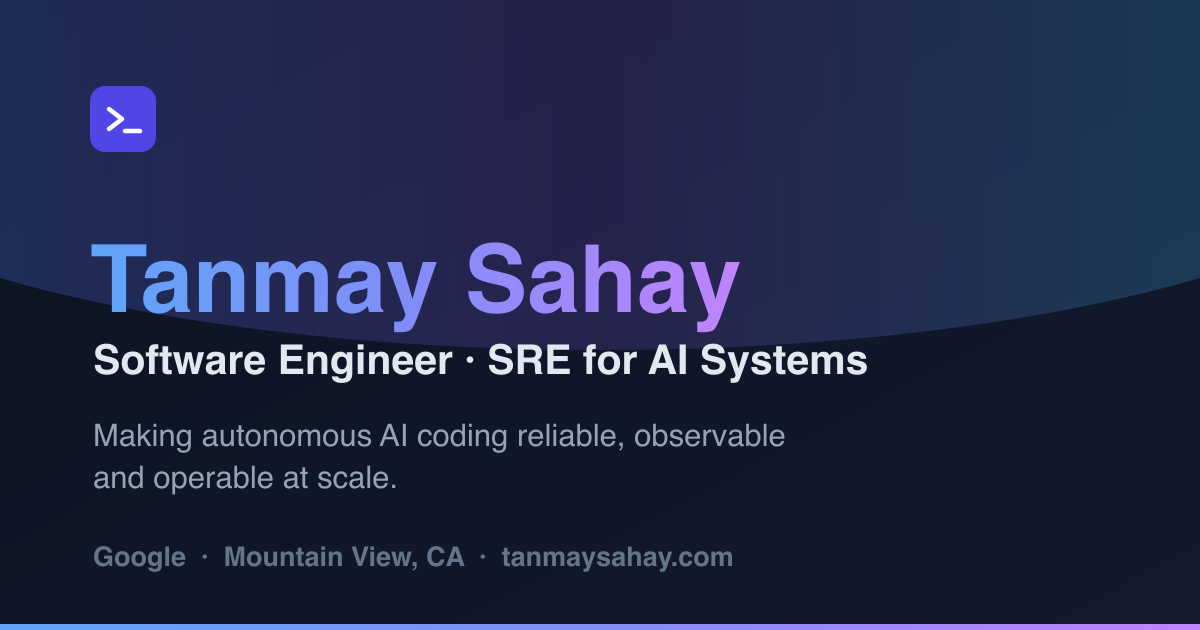
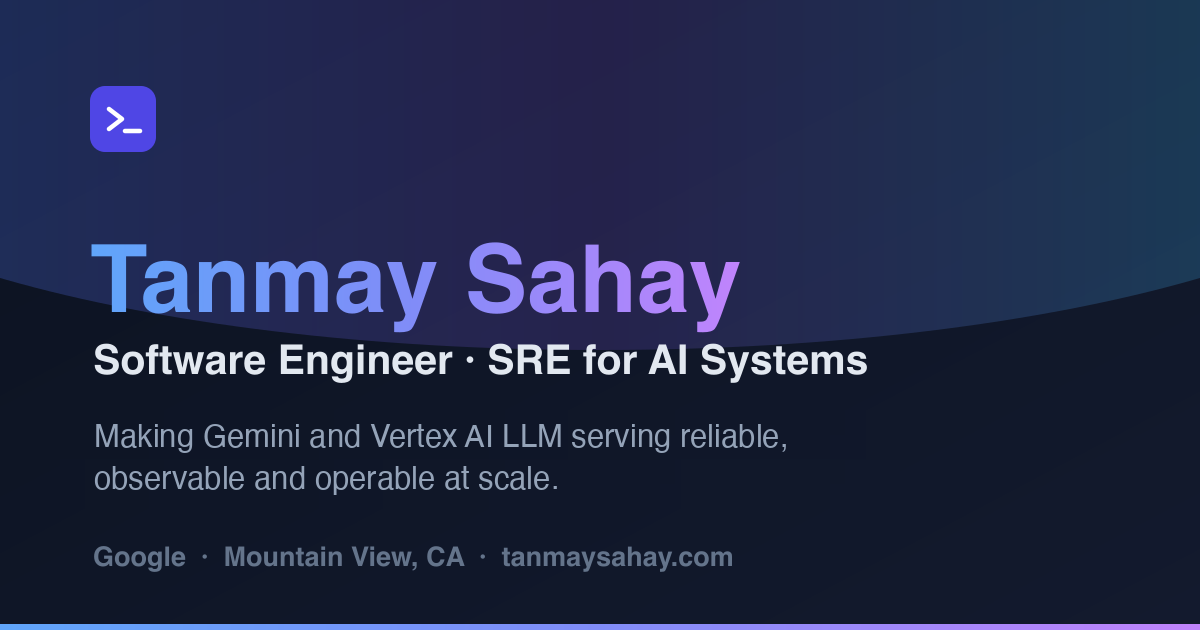
content: remove all Jules mentions; Apr '25+ is Gemini & Vertex AI LLM serving
Rewrite the Apr '25 - Present entry from the approved résumé's
Gemini Platform & Vertex AI section (inference-serving ownership,
hermetic ML-Ops config migration, region turnup with accelerator
capacity validation, Gemini-powered incident framework). Drop the
untraceable ~30 SWE-years / ~7.6k TPUs bullet. Remove Jules links,
the Jules team type, and Jules copy from summary, meta, OG and
Twitter tags. Regenerate the og-image tagline in the same style.
claims.test.ts now fails if "jules" appears in src/, index.html or
public/.

Claude-Session: https://claude.ai/code/session_01GRvi3Zx7AnBhsrVrAUUWgQ

Changed region(s): [[0.0617, 0.6635, 0.6475, 0.7841]]

diff --git a/src/InteractiveResume.tsx b/src/InteractiveResume.tsx
@@ -30,7 +30,7 @@ interface Kudo {
   date: string;
   text: string;
   tags: string[];
-  team: 'Jules' | 'Vertex AI' | 'Network Infra' | 'Cloud Infra' | 'Serverless' | 'Booking' | 'Cross-team';
+  team: 'Vertex AI' | 'Network Infra' | 'Cloud Infra' | 'Serverless' | 'Booking' | 'Cross-team';
   theme: 'Technical Excellence' | 'Leadership' | 'Collaboration' | 'Incident Response' | 'Automation' | 'Mentoring' | 'Innovation';
   year: number;
   featured?: boolean;
@@ -60,14 +60,14 @@ export const RESUME_DATA = {
   profile: {
     name: "Tanmay Sahay",
     title: "Software Engineer — Reliability for AI Systems",
-    tagline: "Making frontier AI models and agents reliable, observable, and operable at scale.",
+    tagline: "Making Gemini and Vertex AI LLM serving reliable, observable, and operable at scale.",
     location: "Mountain View, CA",
     contact: {
       email: "tanmaysahay94@gmail.com",
       phone: "+1-650-705-7651",
       linkedin: "linkedin.com/in/tanmaysahay"
     },
-    summary: "Customer-obsessed engineer with 8+ years of experience making service operability sustainable. Currently focused on reliability, observability, and operability of Google DeepMind's Gemini models on Vertex AI and the Jules coding agent. Expert in automating complex infrastructure, reducing operational toil by >50%, and pioneering AI-powered troubleshooting. Proven track record of saving 30+ SWE-years through efficiency optimizations.",
+    summary: "Customer-obsessed engineer with 8+ years of experience making service operability sustainable. Currently focused on reliability of Google DeepMind's Gemini models on Vertex AI — accelerator-backed LLM inference serving. Expert in automating complex infrastructure, reducing operational toil by >50%, and pioneering AI-powered troubleshooting. Proven track record of saving 30+ SWE-years through efficiency optimizations.",
     languages: {
       families: [
         {
@@ -114,21 +114,18 @@ export const RESUME_DATA = {
     {
       id: "google-gemini",
       company: "Google",
-      role: "Software Engineer, SRE (Gemini & Vertex AI · Google DeepMind)",
+      role: "Software Engineer, SRE (Gemini & Vertex AI LLM serving · Google DeepMind)",
       period: "Apr '25 - Present",
       location: "US-MTV",
       type: "work",
-      description: "Leading reliability for Google DeepMind models and agents in production — Gemini, Veo and Imagen on Vertex AI, and Jules, the autonomous AI coding agent (jules.google.com).",
+      description: "Making Google Cloud's large language model offerings (Gemini, Veo, Imagen) more reliable. Check out cloud.google.com/vertex-ai",
       impact_points: [
-        "Automated months-long turnup process for Vertex AI in new regions, and extended turnup automation to Jules regions and capacity.",
-        "Saved Google ~30 SWE-years and relinquished ~7.6k TPUs by enforcing Vertex Endpoint Health.",
-        "Pioneered 'Gemini Powered Vertex Operations', using AI to reduce Mean Time To Mitigate (MTTM).",
-        "Designed capacity presubmits preventing Vertex capacity overconsumption.",
-        "Building observability pipelines to surface agent health, task success rates, and failure modes — enabling data-driven reliability decisions.",
-        "Designing operability frameworks that make Jules continually easier to operate, maintain, and on-call for.",
-        "Driving change management and capacity management practices to ensure safe, predictable rollouts at scale."
+        "Reliability owner for accelerator-backed inference serving at frontier-model scale — GPU/TPU fleet capacity, serving-stack rollouts, and the incident path for Gemini, Veo and Imagen traffic.",
+        "Led the migration of Vertex AI's ML model-serving configurations to dedicated hermetic ML-Ops, removing a class of release-time serving outages and materially improving rollout safety.",
+        "Automated the months-long turnup of Vertex AI in new regions, including accelerator capacity validation before traffic admission.",
+        "Built a Gemini-powered incident framework that cuts MTTx through LLM-assisted triage and gated actuation — an agentic system running against live production."
       ],
-      skills: ["AI/ML", "AI Agents", "Reliability", "Observability", "Automation", "Capacity Planning", "Change Management", "Python", "Go"]
+      skills: ["LLM Serving", "GPU/TPU Capacity", "ML-Ops", "Reliability", "Incident Response", "Automation", "Python", "Go"]
     },
     {
       id: "google-network",
@@ -298,8 +295,8 @@ export const RESUME_DATA = {
 const LAYMAN_CONTENT = {
   profile: {
     title: "Software Engineer making AI systems reliable",
-    tagline: "Making frontier AI models and agents reliable, observable, and operable at scale.",
-    summary: "Dedicated engineer with 8+ years of experience keeping critical services running. Currently focused on making Google DeepMind's Gemini AI models and the Jules coding assistant reliable and well-monitored. I build tools that automate complex tasks, reduce repetitive work by over 50%, and use AI to solve problems faster. My work has saved the equivalent of 30+ years of engineering effort through efficiency improvements."
+    tagline: "Making Gemini and Vertex AI LLM serving reliable, observable, and operable at scale.",
+    summary: "Dedicated engineer with 8+ years of experience keeping critical services running. Currently focused on making Google DeepMind's Gemini AI models on Vertex AI reliable and well-monitored. I build tools that automate complex tasks, reduce repetitive work by over 50%, and use AI to solve problems faster. My work has saved the equivalent of 30+ years of engineering effort through efficiency improvements."
   },
   metrics: [
     { label: "Peer Bonuses", value: "43", desc: "Recognized by colleagues for teamwork & impact" },
@@ -309,14 +306,13 @@ const LAYMAN_CONTENT = {
   ],
   experience: {
     "google-gemini": {
-      role: "Engineer keeping Google DeepMind's AI models and agents (Gemini, Imagen, Jules) reliable",
-      description: "Leading efforts to keep Google DeepMind's AI products — on Google Cloud and the Jules coding agent — running smoothly for customers.",
+      role: "Engineer keeping Google DeepMind's AI models (Gemini, Veo, Imagen) reliable",
+      description: "Keeping Google Cloud's large language model offerings running smoothly for customers.",
       impact_points: [
-        "Automated a months-long setup process for new data centers, now takes days.",
-        "Saved ~30 years of engineering work and freed up expensive AI chips by identifying unused resources.",
-        "Pioneered using AI to help diagnose and fix problems faster during outages.",
-        "Created safeguards to prevent systems from running out of computing resources.",
-        "Creating monitoring dashboards so the team can see how the AI agent is performing and catch problems before users notice."
+        "Responsible for keeping the AI chips and servers that answer Gemini, Veo and Imagen requests reliable.",
+        "Moved how AI models are configured for serving onto a safer, self-contained release process, removing a whole class of release-day outages.",
+        "Automated the months-long setup of Vertex AI in new regions, including checking AI-chip capacity before traffic arrives.",
+        "Built a Gemini-powered incident assistant that helps engineers diagnose and fix outages faster."
       ]
     },
     "google-network": {
@@ -391,7 +387,7 @@ const LAYMAN_CONTENT = {
 // --- Helpers ---
 
 export const linkify = (text: string): React.ReactNode => {
-  const url = 'jules.google.com';
+  const url = 'cloud.google.com/vertex-ai';
   const idx = text.indexOf(url);
   if (idx === -1) return text;
   return (

diff --git a/index.html b/index.html
@@ -8,7 +8,7 @@
     <title>Tanmay Sahay — Software Engineer &amp; SRE for AI Systems</title>
     <meta
       name="description"
-      content="Tanmay Sahay is a Software Engineer and Site Reliability Engineer at Google, making Google DeepMind's Gemini models and agents reliable, observable, and operable at scale. 8+ years in cloud reliability, ex-Booking.com."
+      content="Tanmay Sahay is a Software Engineer and Site Reliability Engineer at Google, making Google DeepMind's Gemini models on Vertex AI reliable, observable, and operable at scale. 8+ years in cloud reliability, ex-Booking.com."
     />
     <link rel="canonical" href="https://tanmaysahay.com/" />
     <meta name="author" content="Tanmay Sahay" />
@@ -21,7 +21,7 @@
     <meta property="og:title" content="Tanmay Sahay — Software Engineer &amp; SRE for AI Systems" />
     <meta
       property="og:description"
-      content="Making frontier AI models and agents reliable, observable, and operable at scale. 8+ years in cloud reliability at Google, ex-Booking.com."
+      content="Making Gemini and Vertex AI LLM serving reliable, observable, and operable at scale. 8+ years in cloud reliability at Google, ex-Booking.com."
     />
     <meta property="og:url" content="https://tanmaysahay.com/" />
     <meta property="og:image" content="https://tanmaysahay.com/og-image.png" />
@@ -34,7 +34,7 @@
     <meta name="twitter:title" content="Tanmay Sahay — Software Engineer & SRE for AI Systems" />
     <meta
       name="twitter:description"
-      content="Making frontier AI models and agents reliable, observable, and operable at scale. 8+ years in cloud reliability at Google."
+      content="Making Gemini and Vertex AI LLM serving reliable, observable, and operable at scale. 8+ years in cloud reliability at Google."
     />
     <meta name="twitter:image" content="https://tanmaysahay.com/og-image.png" />
 

diff --git a/src/claims.test.ts b/src/claims.test.ts
@@ -6,7 +6,11 @@ import { join, relative } from 'node:path';
 // Bug/incident/ticket IDs (b/123456, omg/57103, irm/i_…) and go/ links.
 const INTERNAL_ID = /\b(?:b|omg)\/\d{5,}|\birm\/[A-Za-z0-9_]{5,}|\bgo\/[A-Za-z0-9]/i;
 
+// Retired product names that must not reappear anywhere public.
+const RETIRED = /jules/i;
+
 const SRC = join(__dirname);
+const ROOT = join(__dirname, '..');
 const SELF = relative(SRC, __filename);
 
 function walk(dir: string): string[] {
@@ -27,6 +31,14 @@ describe('public claims guard', () => {
           .filter(({ line }) => INTERNAL_ID.test(line))
           .map(({ at, line }) => `${at}: ${line.trim().slice(0, 80)}`),
       );
+    expect(hits).toEqual([]);
+  });
+
+  it('src/, index.html and public/ text never mention retired product names', () => {
+    const files = [...walk(SRC), join(ROOT, 'index.html'), ...walk(join(ROOT, 'public'))].filter(
+      (p) => /\.(tsx?|css|json|html|txt|xml|svg)$/.test(p) && relative(SRC, p) !== SELF,
+    );
+    const hits = files.filter((p) => RETIRED.test(readFileSync(p, 'utf8'))).map((p) => relative(ROOT, p));
     expect(hits).toEqual([]);
   });
 

diff --git a/src/variants/links.ts b/src/variants/links.ts
@@ -4,7 +4,6 @@ export const ROLE_LINKS: Record<string, { label: string; url: string }[]> = {
   'google-gemini': [
     { label: 'vertex ai', url: 'https://cloud.google.com/vertex-ai' },
     { label: 'gemini', url: 'https://gemini.google.com' },
-    { label: 'jules.google.com', url: 'https://jules.google.com' },
   ],
   'google-serverless': [
     { label: 'cloud run', url: 'https://cloud.google.com/run' },
@@ -17,7 +16,6 @@ export const ROLE_LINKS: Record<string, { label: string; url: string }[]> = {
 export const PROFILE_LINKS = {
   github: 'https://github.com/tanmaysahay94',
   linkedin: 'https://www.linkedin.com/in/tanmaysahay',
-  jules: 'https://jules.google.com',
   // Sanitized build of ~/Sandbox/resume (phone stripped; see memory 2026-07-06).
   resume: '/resume.pdf',
 };
